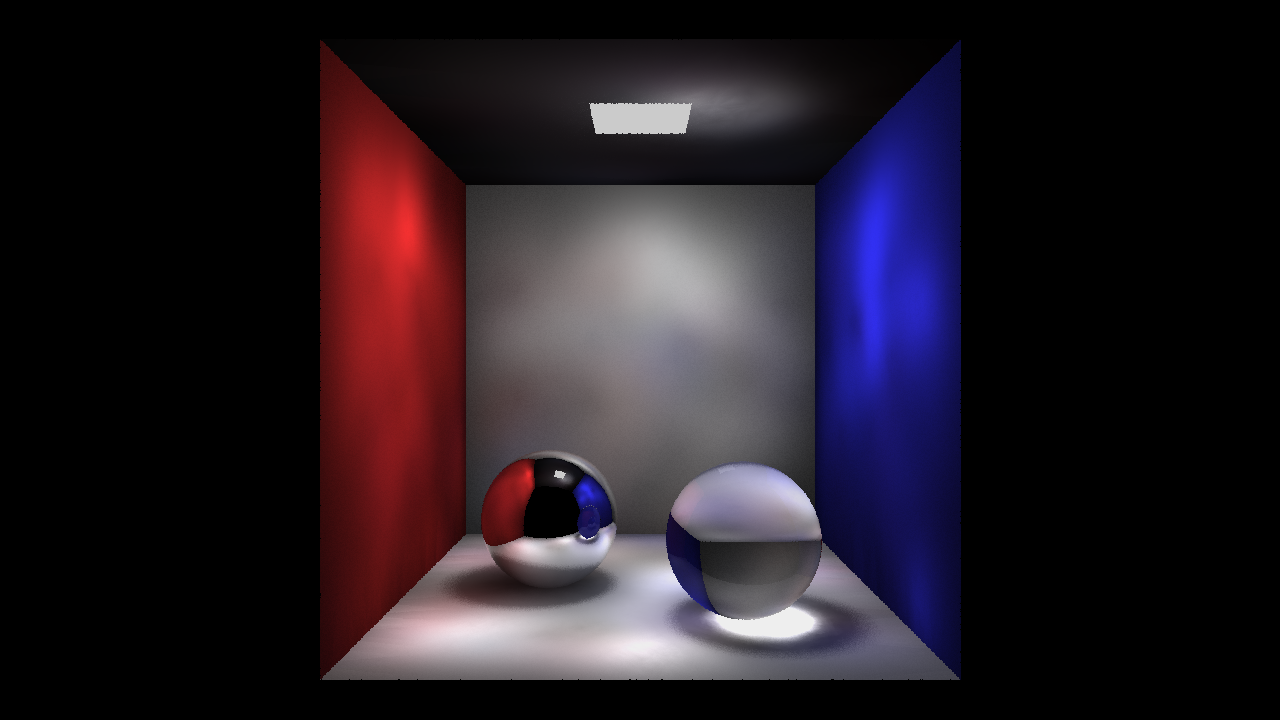
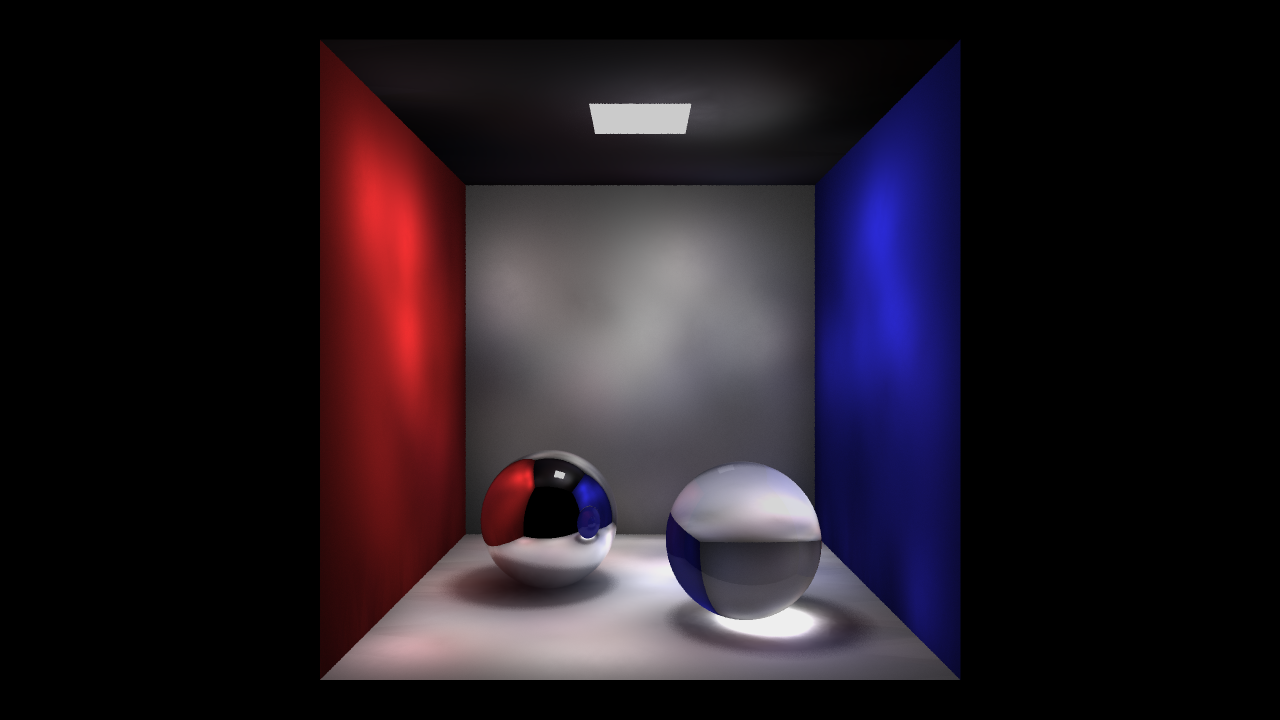
Rename random namespace to fix conflict on macos

diff --git a/src/PhotonMap.cpp b/src/PhotonMap.cpp
@@ -73,7 +73,7 @@ namespace raytrace {
     */
 
     photon *findMedianPhoton(photon** photons, int size, Axis axis) {
-        int k = random::nextInt(0, size);
+        int k = randutil::nextInt(0, size);
         photon *p = photons[k];
         photon** scratch = new photon*[size];
         int less_index = 0;
@@ -329,15 +329,15 @@ namespace raytrace {
         Vec3 photon_power(light_color);
         while (photon_index < photon_size) {
             photon_power.set(&light_color);
-            double x0 = random::nextDouble() * 2 - 1;
-            double z0 = random::nextDouble() * 2 + 3;
+            double x0 = randutil::nextDouble() * 2 - 1;
+            double z0 = randutil::nextDouble() * 2 + 3;
             double y0 = 4.95;
             light_source.set(x0, y0, z0);
             // direction based on cosine distribution
             // formula for distribution from https://www.particleincell.com/2015/cosine-distribution/
-            double sin_theta = sqrt(random::nextDouble());
+            double sin_theta = sqrt(randutil::nextDouble());
             double cos_theta = sqrt(1 - sin_theta*sin_theta);
-            double psi = random::nextDouble() * 6.2831853;
+            double psi = randutil::nextDouble() * 6.2831853;
             Vec3 light_dir(sin_theta * cos(psi), -cos_theta, sin_theta * sin(psi));
             light_dir.normalize();
             int bounces = 0;
@@ -351,7 +351,7 @@ namespace raytrace {
                     break;
                 }
                 // we have a hit time to decide whether to reflect, absorb, or transmit
-                double chance = random::nextDouble();
+                double chance = randutil::nextDouble();
                 if (bounces > 3) {
                     // force an absorption if we've already bounced too many times
                     chance = 1;
@@ -455,15 +455,15 @@ namespace raytrace {
         Vec3 photon_power(light_color);
         while (photon_index < photon_size) {
             photon_power.set(&light_color);
-            double x0 = random::nextDouble() * 2 - 1;
-            double z0 = random::nextDouble() * 2 + 3;
+            double x0 = randutil::nextDouble() * 2 - 1;
+            double z0 = randutil::nextDouble() * 2 + 3;
             double y0 = 4.95;
             light_source.set(x0, y0, z0);
             // direction based on cosine distribution
             // formula for distribution from https://www.particleincell.com/2015/cosine-distribution/
-            double sin_theta = sqrt(random::nextDouble());
+            double sin_theta = sqrt(randutil::nextDouble());
             double cos_theta = sqrt(1 - sin_theta*sin_theta);
-            double psi = random::nextDouble() * 6.2831853;
+            double psi = randutil::nextDouble() * 6.2831853;
             // we cheat a little for this scene and angle the light more down beause we know our objects are below the light
             Vec3 light_dir(sin_theta * cos(psi), -2 * cos_theta, sin_theta * sin(psi));
             light_dir.normalize();
@@ -478,7 +478,7 @@ namespace raytrace {
                     break;
                 }
                 // we have a hit time to decide whether to reflect, absorb, or transmit
-                double chance = random::nextDouble();
+                double chance = randutil::nextDouble();
                 if (bounces > 3) {
                     // force an absorption if we've already bounced too many times
                     chance = 1;
@@ -489,9 +489,9 @@ namespace raytrace {
                 if (chance < nearest_obj->diffuse_chance) {
                     // diffuse reflection
                     light_source.set(nearest_result.x, nearest_result.y, nearest_result.z);
-                    double sin_theta = sqrt(random::nextDouble());
+                    double sin_theta = sqrt(randutil::nextDouble());
                     double cos_theta = sqrt(1 - sin_theta*sin_theta);
-                    double psi = random::nextDouble() * 6.2831853;
+                    double psi = randutil::nextDouble() * 6.2831853;
                     Vec3 n1(nearest_normal);
                     n1.mul(cos_theta);
                     Vec3 n2(n1.y, -n1.x, n1.z);

diff --git a/src/Raytrace.cpp b/src/Raytrace.cpp
@@ -25,7 +25,7 @@ namespace raytrace {
         Vec3 nearest_result(0, 0, 0);
         Vec3 nearest_normal(0, 0, 0);
         SceneObject *nearest_obj = nullptr;
-        scene->intersect(ray_source, ray, exclude, &nearest_result, &nearest_normal, &nearest_obj, random::nextDouble());
+        scene->intersect(ray_source, ray, exclude, &nearest_result, &nearest_normal, &nearest_obj, randutil::nextDouble());
         if (nearest_obj == nullptr) {
             return 0xFF000000;
         } else if (nearest_result.y > 4.95 && nearest_result.x > -1 && nearest_result.x < 1 && nearest_result.z > 3 && nearest_result.z < 5) {
@@ -145,14 +145,14 @@ namespace raytrace {
                 Vec3 result(0, 0, 0);
                 Vec3 normal(0, 0, 0);
                 for (int i = 0; i < SHADOW_RAY_COUNT; i++) {
-                    double x0 = random::nextDouble() * 2 - 1;
-                    double z0 = random::nextDouble() * 2 + 3;
+                    double x0 = randutil::nextDouble() * 2 - 1;
+                    double z0 = randutil::nextDouble() * 2 + 3;
                     double y0 = 4.95;
                     light_source.set(x0, y0, z0);
                     shadow_ray.set(light_source.x - nearest_result.x, light_source.y - nearest_result.y, light_source.z - nearest_result.z);
                     double max_dist = shadow_ray.lengthSquared();
                     shadow_ray.normalize();
-                    double dt = random::nextDouble();
+                    double dt = randutil::nextDouble();
                     for (int i = 0; i < scene->size; i++) {
                         if (scene->objects[i] == nearest_obj) {
                             continue;
@@ -243,8 +243,8 @@ namespace raytrace {
                 printf("");
             }
             ray_source.set(data->camera);
-            double x1 = random::nextDouble() * 0.6 - 0.3;
-            double y1 = random::nextDouble() * 0.6 - 0.3;
+            double x1 = randutil::nextDouble() * 0.6 - 0.3;
+            double y1 = randutil::nextDouble() * 0.6 - 0.3;
             double x0 = (x - data->width / 2 + x1) / fov - ray_source.x;
             double y0 = (data->y - data->height / 2 + y1) / fov - ray_source.y;
             ray.set(x0, y0, -ray_source.z);

diff --git a/src/Image.cpp b/src/Image.cpp
@@ -14,7 +14,7 @@ namespace raytrace {
     void render(const char *image_file) {
         // Seed the random engine with the current epoch tick
         int64 time = std::chrono::duration_cast<std::chrono::milliseconds>(std::chrono::system_clock::now().time_since_epoch()).count();
-        random::init(time);
+        randutil::init(time);
         printf("Setting up scene\n");
         // Setup our cornell box
         Scene *scene = new Scene(7);
@@ -28,7 +28,7 @@ namespace raytrace {
         scene->objects[6] = new SphereObject(-2, -3.5, 5, 1.5, 0xFFFFFFFF, 0.0, 1.0, 0.0, 0.0);
         //scene->objects[7] = new SphereObject(0, 1, 5, 0.8, 0xFF33FF33, 0.4, 0.0, 0.0, 1.0, 0.2, 0, 0);
 
-        int32 sample_ratio = 1;
+        int32 sample_ratio = 2;
         uint32 *pane = new uint32[1280 * 720 * sample_ratio * sample_ratio];
         Vec3 camera(0, 0, -12);
         raytrace::renderScene(scene, camera, pane, 1280 * sample_ratio, 720 * sample_ratio);

diff --git a/src/Render.cpp b/src/Render.cpp
@@ -106,7 +106,7 @@ void main() {\n\
     void run() {
         // Seed the random engine with the current epoch tick
         int64 time = std::chrono::duration_cast<std::chrono::milliseconds>(std::chrono::system_clock::now().time_since_epoch()).count();
-        random::init(time);
+        randutil::init(time);
         // Initialize opengl
         if (!glfwInit()) {
             fprintf(stderr, "Failed to initialize GLFW\n");

diff --git a/src/Random.cpp b/src/Random.cpp
@@ -3,7 +3,7 @@
 
 #include <random>
 
-namespace random {
+namespace randutil {
 
     std::default_random_engine *rand_engine = new std::default_random_engine;
     std::uniform_real_distribution<double> *real_dist;

diff --git a/src/Random.h b/src/Random.h
@@ -2,7 +2,7 @@
 
 #include "Vector.h"
 
-namespace random {
+namespace randutil {
 
     void init(int64 seed);
 
